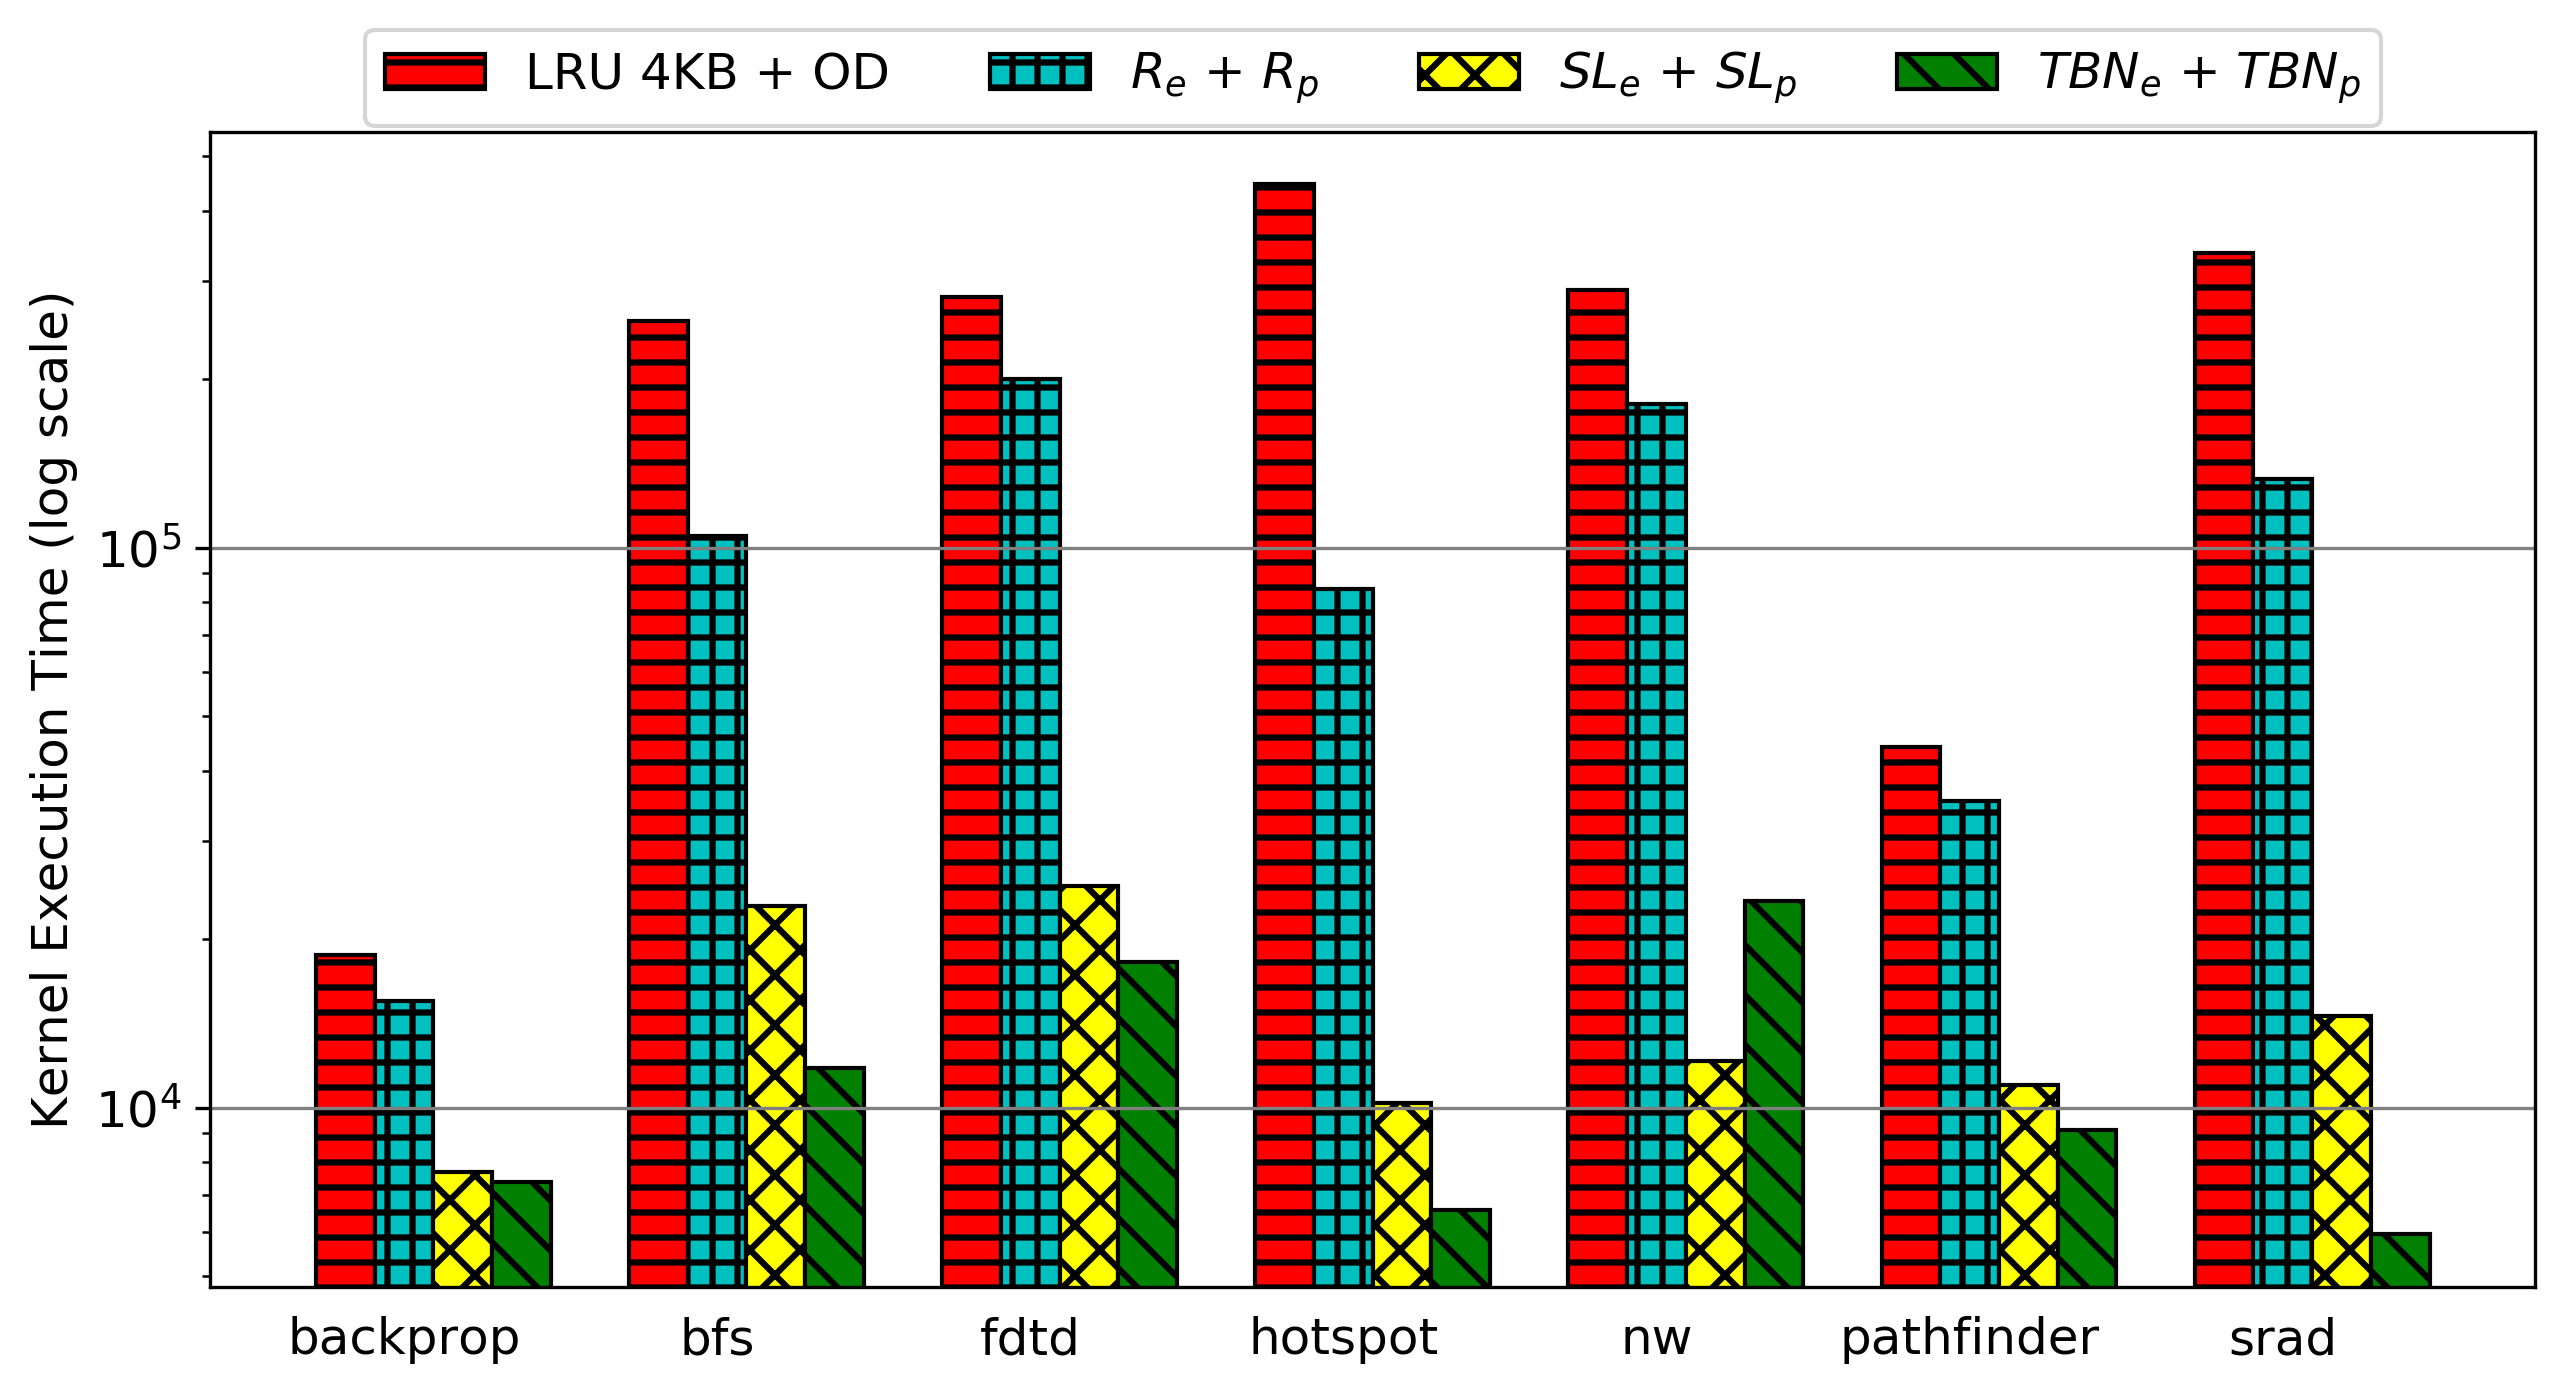
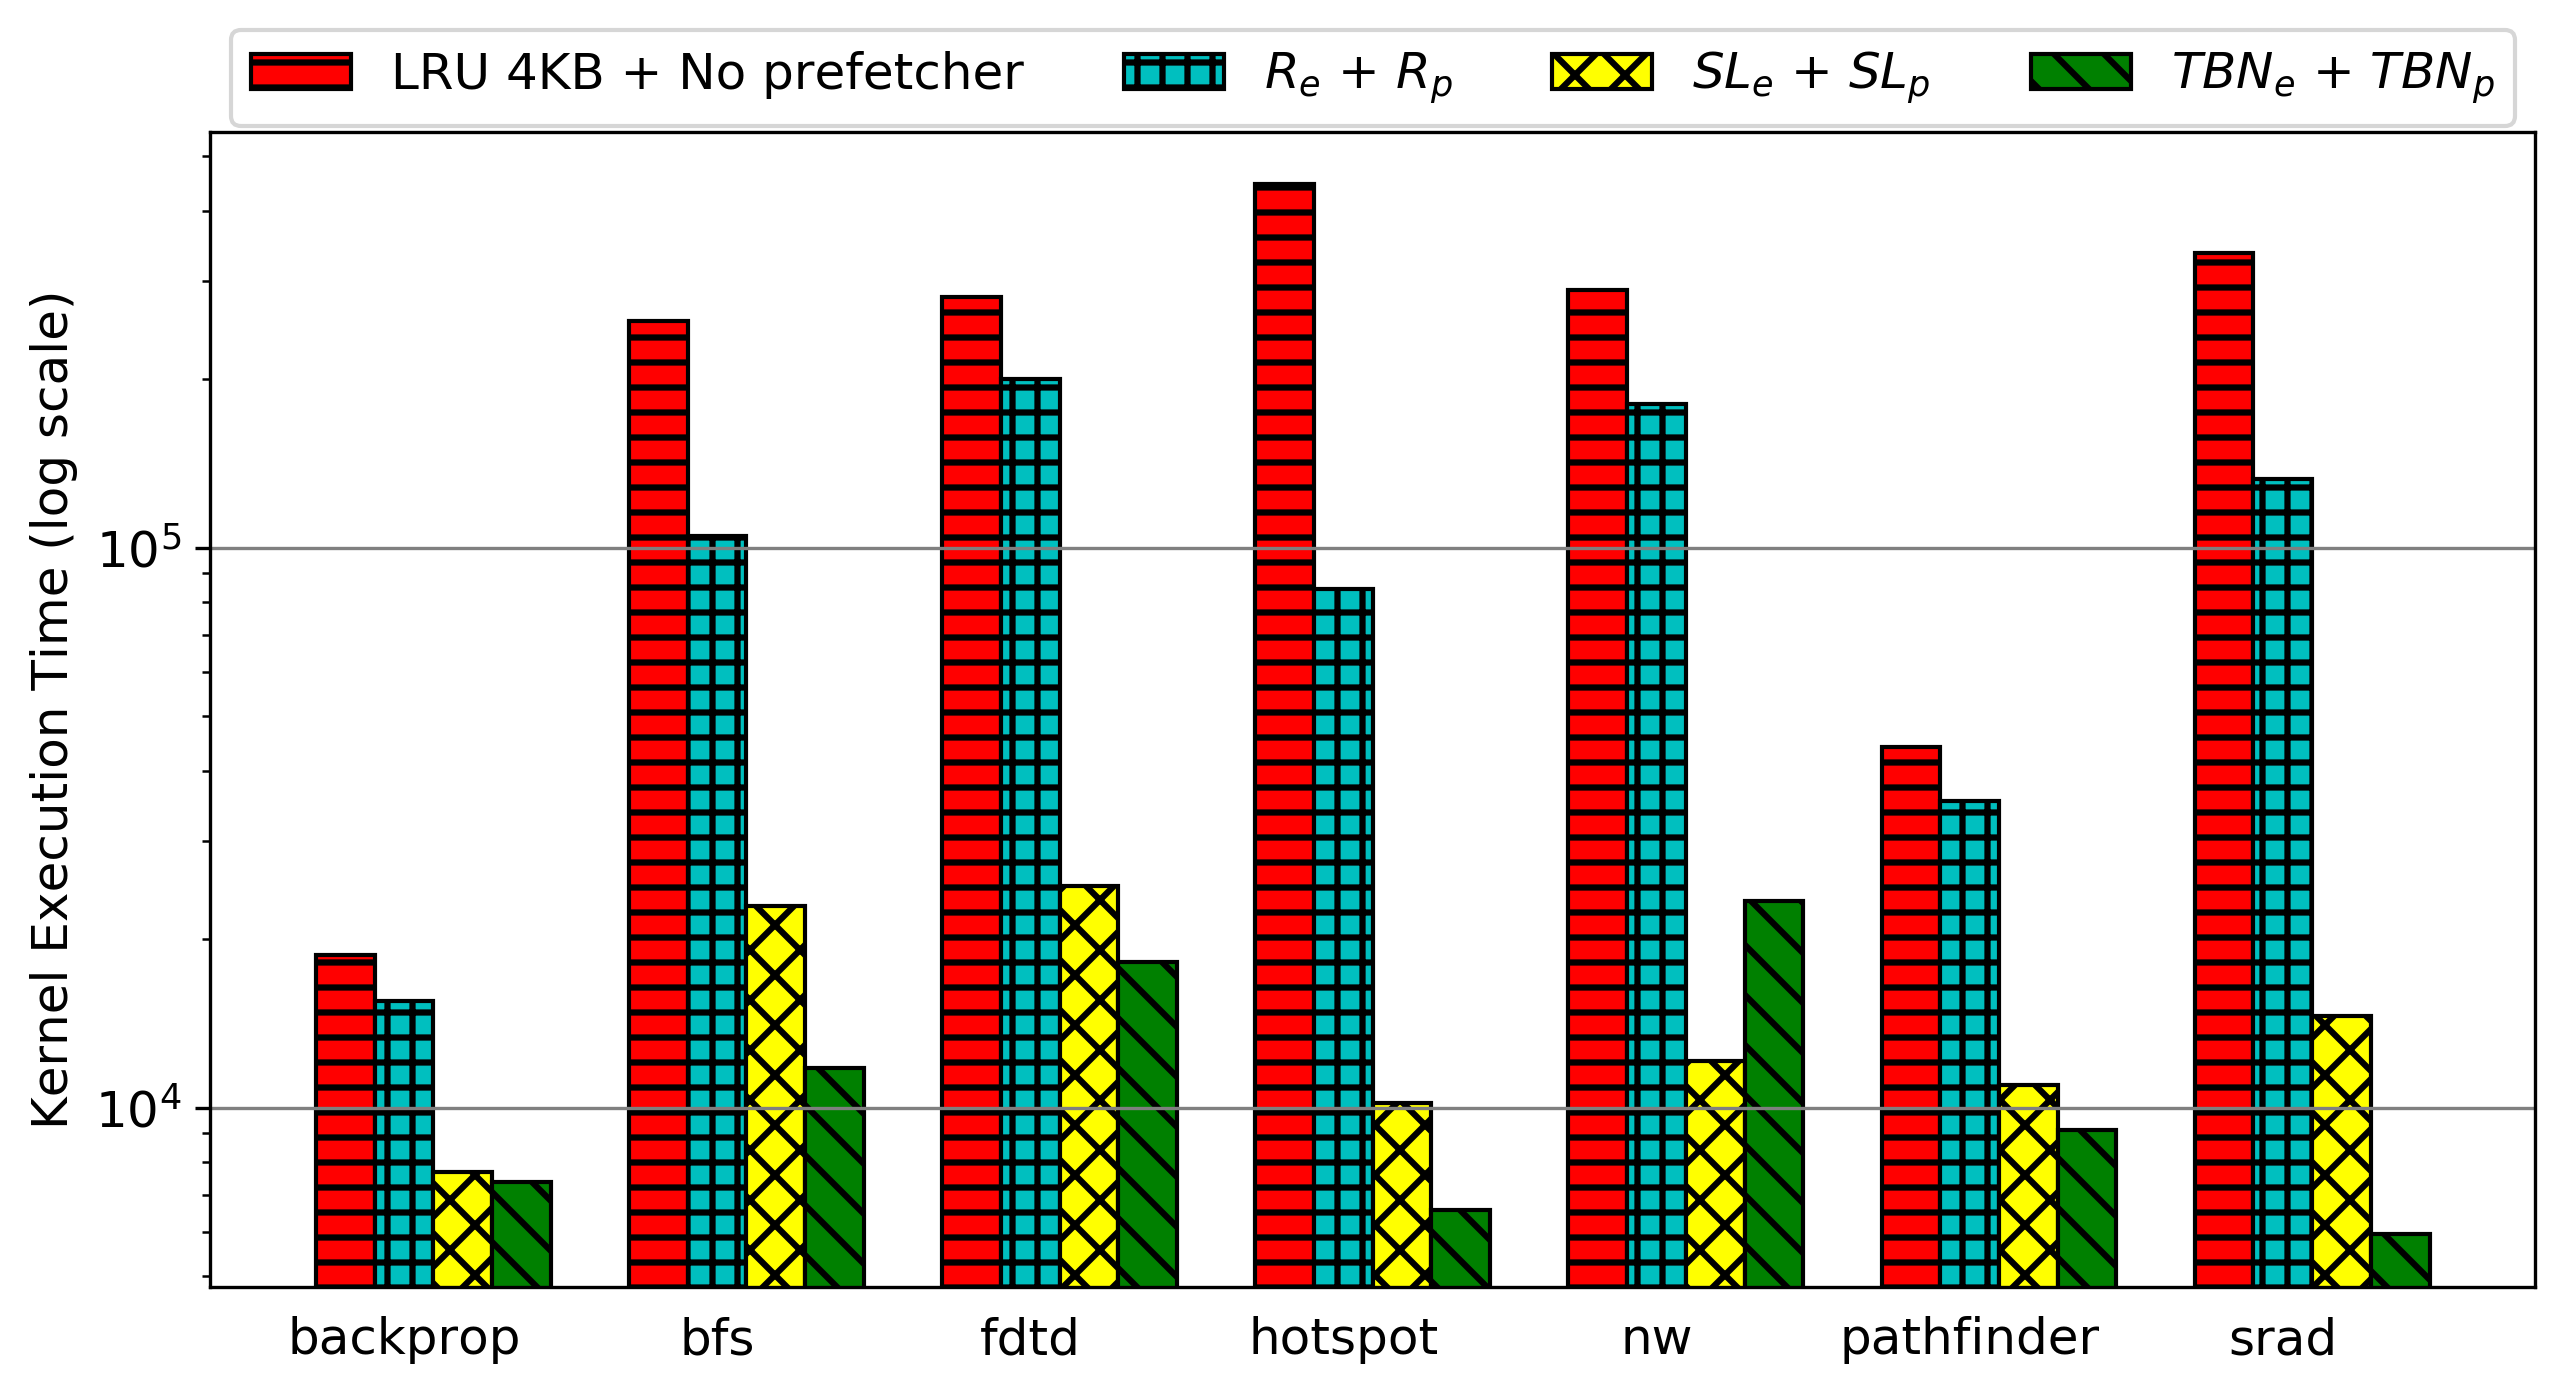
Hopefully final update for ISCA

Changed region(s): [[0.0935, 0.0308, 0.9969, 0.0925]]

diff --git a/benchmarks/Results/Eviction_Prefetcher_Interplay/scripts/plot_reservelru.py b/benchmarks/Results/Eviction_Prefetcher_Interplay/scripts/plot_reservelru.py
@@ -13,11 +13,10 @@ from matplotlib import gridspec
 parent_folder = '../output_logs'
 
 experiment_folder = 'ReserveLRU'
-sub_folders = ['SL_110', 'TBN_110', 'TBN_110_Rsv10', 'TBN_110_Rsv20']
+sub_folders = ['TBN_110', 'TBN_110_Rsv10', 'TBN_110_Rsv20']
 
 benchmarks = ['backprop', 'bfs', 'fdtd', 'hotspot', 'nw', 'pathfinder', 'srad']
 
-rt_SL_110 = []
 rt_TBN_110 = []
 rt_TBN_110_Rsv10 = []
 rt_TBN_110_Rsv20 = []
@@ -32,9 +31,7 @@ for b in benchmarks:
 			line = re.findall(r"^Tot_kernel_exec_time_and_fault_time.*", file_content, flags=re.MULTILINE)[0]
 			rt = float(line[line.find(', ')+2:line.rfind('(us)')])
 
-			if sf == 'SL_110':
-				rt_SL_110.append(rt)
-			elif sf == 'TBN_110':
+			if sf == 'TBN_110':
 				rt_TBN_110.append(rt)
 			elif sf == 'TBN_110_Rsv10':
 				rt_TBN_110_Rsv10.append(rt)
@@ -62,7 +59,6 @@ for i in range(len(rt_TBN_110)):
 r2 = [x + barWidth for x in r1a]
 r3 = [x + barWidth for x in r2]
 r4 = [x + barWidth for x in r3]
-r5 = [x + barWidth for x in r4]
 
 
 plt.figure(1)
@@ -76,10 +72,9 @@ plt.rcParams['hatch.linewidth'] = 1.5
 
 plt.figure(figsize=(10,5))
 
-plt.bar(r2, rt_SL_110, hatch="xx", color='r', width=barWidth, edgecolor='black', label='$SL_e$ + $SL_p$')
-plt.bar(r3, rt_TBN_110, hatch="\\\\", color='c', width=barWidth, edgecolor='black', label='$TBN_e$ + $TBN_p$')
-plt.bar(r4, rt_TBN_110_Rsv10, hatch="OO", color='yellow', width=barWidth, edgecolor='black', label='$TBN_e$ + $TBN_p$ + Reserve top 10% of LRU queue')
-plt.bar(r5, rt_TBN_110_Rsv20, hatch="oo", color='g', width=barWidth, edgecolor='black', label='$TBN_e$ + $TBN_p$ + Reserve top 20% of LRU queue')
+plt.bar(r2, rt_TBN_110, hatch="--", color='r', width=barWidth, edgecolor='black', label='$TBN_e$ + $TBN_p$')
+plt.bar(r3, rt_TBN_110_Rsv10, hatch="++", color='c', width=barWidth, edgecolor='black', label='$TBN_e$ + $TBN_p$ + Reserve top 10% of LRU queue')
+plt.bar(r4, rt_TBN_110_Rsv20, hatch="xx", color='yellow', width=barWidth, edgecolor='black', label='$TBN_e$ + $TBN_p$ + Reserve top 20% of LRU queue')
 
 plt.xticks([r + 0.3 + barWidth for r in r1a], benchmarks)
 

diff --git a/benchmarks/Results/Eviction_Prefetcher_Interplay/scripts/plot_combo.py b/benchmarks/Results/Eviction_Prefetcher_Interplay/scripts/plot_combo.py
@@ -76,7 +76,7 @@ plt.rcParams['hatch.linewidth'] = 1.5
 
 plt.figure(figsize=(10,5))
 
-plt.bar(r2, rt_LRU_OD, hatch="--", color='r', width=barWidth, edgecolor='black', label='LRU 4KB + OD')
+plt.bar(r2, rt_LRU_OD, hatch="--", color='r', width=barWidth, edgecolor='black', label='LRU 4KB + No prefetcher')
 plt.bar(r3, rt_Random_Random, hatch="++", color='c', width=barWidth, edgecolor='black', label='$R_e$ + $R_p$')         
 plt.bar(r4, rt_SL_SL, hatch="xx", color='yellow', width=barWidth, edgecolor='black', label='$SL_e$ + $SL_p$')
 plt.bar(r5, rt_TBN_TBN, hatch="\\\\", color='g', width=barWidth, edgecolor='black', label='$TBN_e$ + $TBN_p$')
